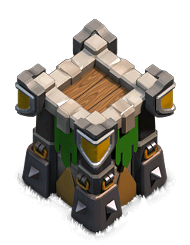
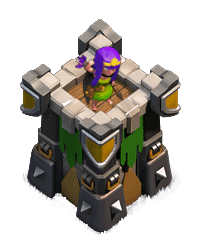
adding troops

Changed region(s): [[0.0789, 0.0882, 0.9474, 1.0], [0.4737, 0.0588, 0.5263, 0.0882], [0.5263, 0.0882, 0.5526, 0.1176]]

diff --git a/clashOfClans/src/main/java/com/example/clashofclans/model/hero/Hero.java b/clashOfClans/src/main/java/com/example/clashofclans/model/hero/Hero.java
@@ -1,8 +1,57 @@
 package com.example.clashofclans.model.hero;
 
+import javafx.scene.image.Image;
+import javafx.scene.image.ImageView;
+
 public abstract class Hero {
     private int HP;
+    private int DMG;
     private int speed;
     private int range;
-    private String target="change type";
+    private int space;
+    private AttackTarget target;
+    private ImageView img_troop;
+    private ImageView img_icon;
+    public Hero(int HP,int DMG,int speed,int range,int space,AttackTarget target,String troopURL,String iconURL){
+        this.HP=HP;
+        this.DMG=DMG;
+        this.speed=speed;
+        this.range=range;
+        this.space=space;
+        this.target=target;
+        img_troop=new ImageView(new Image(troopURL));
+        img_icon=new ImageView(new Image(iconURL));
+    }
+
+    public int getHP() {
+        return HP;
+    }
+
+    public int getDMG() {
+        return DMG;
+    }
+
+    public int getSpeed() {
+        return speed;
+    }
+
+    public int getRange() {
+        return range;
+    }
+
+    public int getSpace() {
+        return space;
+    }
+
+    public AttackTarget getTarget() {
+        return target;
+    }
+
+    public ImageView getImg_troop() {
+        return img_troop;
+    }
+
+    public ImageView getImg_icon() {
+        return img_icon;
+    }
 }

diff --git a/clashOfClans/src/main/java/com/example/clashofclans/view/TrainArmyMenu.java b/clashOfClans/src/main/java/com/example/clashofclans/view/TrainArmyMenu.java
@@ -1,0 +1,37 @@
+package com.example.clashofclans.view;
+
+import com.example.clashofclans.model.player.Player;
+import javafx.scene.Scene;
+import javafx.scene.layout.AnchorPane;
+import javafx.scene.layout.HBox;
+import javafx.stage.Modality;
+import javafx.stage.Stage;
+
+import java.util.Scanner;
+
+public class TrainArmyMenu {
+    private Stage stage;
+    private Scene scene;
+    private AnchorPane root;
+    private HBox hb_trainQueue;
+    private Player player;
+    public TrainArmyMenu(Stage owner, Player player){
+        this.player=player;
+        setStageSetting(owner);
+    }
+    private void setStageSetting(Stage owner){
+        stage=new Stage();
+        root=new AnchorPane();
+        scene=new Scene(root);
+
+
+
+        stage.setScene(scene);
+        stage.setWidth(800);
+        stage.setHeight(600);
+        stage.initOwner(owner);
+        stage.initModality(Modality.APPLICATION_MODAL);
+        stage.setResizable(false);
+        stage.show();
+    }
+}

diff --git a/clashOfClans/src/main/java/com/example/clashofclans/model/hero/Barbarian.java b/clashOfClans/src/main/java/com/example/clashofclans/model/hero/Barbarian.java
@@ -1,0 +1,7 @@
+package com.example.clashofclans.model.hero;
+
+public class Barbarian extends Hero{
+    public Barbarian(){
+        super(0,0,0,0,0,AttackTarget.ANY,"C:\\Users\\j-tech.ir\\Desktop\\uni\\game\\final-project-game-aminhosseins\\clashOfClans\\src\\main\\resources\\barbarianTroop.png","C:\\Users\\j-tech.ir\\Desktop\\uni\\game\\final-project-game-aminhosseins\\clashOfClans\\src\\main\\resources\\barbarianIcon.png");
+    }
+}

diff --git a/clashOfClans/src/main/java/com/example/clashofclans/model/hero/Balloon.java b/clashOfClans/src/main/java/com/example/clashofclans/model/hero/Balloon.java
@@ -1,0 +1,7 @@
+package com.example.clashofclans.model.hero;
+
+public class Balloon extends Hero{
+    public Balloon(){
+        super(0,0,0,0,0,AttackTarget.ANY,"C:\\Users\\j-tech.ir\\Desktop\\uni\\game\\final-project-game-aminhosseins\\clashOfClans\\src\\main\\resources\\balloonTroop.png","C:\\Users\\j-tech.ir\\Desktop\\uni\\game\\final-project-game-aminhosseins\\clashOfClans\\src\\main\\resources\\balloonIcon.png");
+    }
+}

diff --git a/clashOfClans/src/main/java/com/example/clashofclans/model/hero/Archer.java b/clashOfClans/src/main/java/com/example/clashofclans/model/hero/Archer.java
@@ -1,0 +1,7 @@
+package com.example.clashofclans.model.hero;
+
+public class Archer extends Hero{
+    public Archer(){
+        super(0,0,0,0,0,AttackTarget.ANY,"C:\\Users\\j-tech.ir\\Desktop\\uni\\game\\final-project-game-aminhosseins\\clashOfClans\\src\\main\\resources\\archerTroop.png","C:\\Users\\j-tech.ir\\Desktop\\uni\\game\\final-project-game-aminhosseins\\clashOfClans\\src\\main\\resources\\archerIcon.png");
+    }
+}

diff --git a/clashOfClans/src/main/java/com/example/clashofclans/model/hero/Goblin.java b/clashOfClans/src/main/java/com/example/clashofclans/model/hero/Goblin.java
@@ -1,0 +1,7 @@
+package com.example.clashofclans.model.hero;
+
+public class Goblin extends Hero{
+    public Goblin(){
+        super(0,0,0,0,0,AttackTarget.ANY,"C:\\Users\\j-tech.ir\\Desktop\\uni\\game\\final-project-game-aminhosseins\\clashOfClans\\src\\main\\resources\\goblinTroop.png","C:\\Users\\j-tech.ir\\Desktop\\uni\\game\\final-project-game-aminhosseins\\clashOfClans\\src\\main\\resources\\goblinIcon.png");
+    }
+}

diff --git a/clashOfClans/src/main/java/com/example/clashofclans/model/hero/Minion.java b/clashOfClans/src/main/java/com/example/clashofclans/model/hero/Minion.java
@@ -1,0 +1,7 @@
+package com.example.clashofclans.model.hero;
+
+public class Minion extends Hero{
+    public Minion(){
+        super(0,0,0,0,0,AttackTarget.ANY,"C:\\Users\\j-tech.ir\\Desktop\\uni\\game\\final-project-game-aminhosseins\\clashOfClans\\src\\main\\resources\\minionTroop.png","C:\\Users\\j-tech.ir\\Desktop\\uni\\game\\final-project-game-aminhosseins\\clashOfClans\\src\\main\\resources\\minionIcon.png");
+    }
+}

diff --git a/clashOfClans/src/main/java/com/example/clashofclans/model/hero/Giant.java b/clashOfClans/src/main/java/com/example/clashofclans/model/hero/Giant.java
@@ -1,0 +1,7 @@
+package com.example.clashofclans.model.hero;
+
+public class Giant extends Hero{
+    public Giant(){
+        super(0,0,0,0,0,AttackTarget.ANY,"C:\\Users\\j-tech.ir\\Desktop\\uni\\game\\final-project-game-aminhosseins\\clashOfClans\\src\\main\\resources\\giantTroop.png","C:\\Users\\j-tech.ir\\Desktop\\uni\\game\\final-project-game-aminhosseins\\clashOfClans\\src\\main\\resources\\giantIcon.png");
+    }
+}

diff --git a/clashOfClans/src/main/java/com/example/clashofclans/model/hero/Golem.java b/clashOfClans/src/main/java/com/example/clashofclans/model/hero/Golem.java
@@ -1,0 +1,7 @@
+package com.example.clashofclans.model.hero;
+
+public class Golem extends Hero{
+    public Golem(){
+        super(0,0,0,0,0,AttackTarget.ANY,"C:\\Users\\j-tech.ir\\Desktop\\uni\\game\\final-project-game-aminhosseins\\clashOfClans\\src\\main\\resources\\golemTroop.png","C:\\Users\\j-tech.ir\\Desktop\\uni\\game\\final-project-game-aminhosseins\\clashOfClans\\src\\main\\resources\\golemIcon.png");
+    }
+}

diff --git a/clashOfClans/src/main/java/com/example/clashofclans/model/hero/PEKKA.java b/clashOfClans/src/main/java/com/example/clashofclans/model/hero/PEKKA.java
@@ -1,0 +1,7 @@
+package com.example.clashofclans.model.hero;
+
+public class PEKKA extends Hero{
+    public PEKKA(){
+        super(0,0,0,0,0,AttackTarget.ANY,"C:\\Users\\j-tech.ir\\Desktop\\uni\\game\\final-project-game-aminhosseins\\clashOfClans\\src\\main\\resources\\pekkaTroop.png","C:\\Users\\j-tech.ir\\Desktop\\uni\\game\\final-project-game-aminhosseins\\clashOfClans\\src\\main\\resources\\pekkaIcon.png");
+    }
+}

diff --git a/clashOfClans/src/main/java/com/example/clashofclans/view/PlayerBaseMenu.java b/clashOfClans/src/main/java/com/example/clashofclans/view/PlayerBaseMenu.java
@@ -147,7 +147,7 @@ public class PlayerBaseMenu {
             dropShadow.setRadius(5);
         });
         btn_trainArmy.addEventHandler(MouseEvent.MOUSE_CLICKED,mouseEvent -> {
-
+            TrainArmyMenu trainArmyMenu=new TrainArmyMenu(stage,player);
         });
 
         root.getChildren().add(btn_trainArmy);

diff --git a/clashOfClans/src/main/java/com/example/clashofclans/model/hero/AttackTarget.java b/clashOfClans/src/main/java/com/example/clashofclans/model/hero/AttackTarget.java
@@ -1,0 +1,5 @@
+package com.example.clashofclans.model.hero;
+
+public enum AttackTarget {
+    ANY,DEFENCE,RESOURCE
+}
